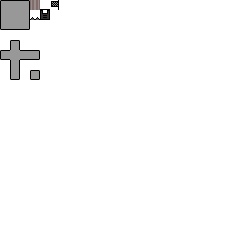
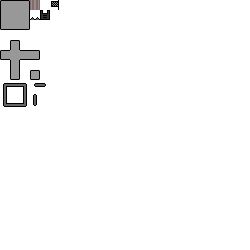
Add moving block

Changed region(s): [[0.0, 0.308, 0.196, 0.448], [0.168, 0.028, 0.196, 0.056]]

diff --git a/src/main.rs b/src/main.rs
@@ -9,6 +9,7 @@ use ggez::graphics::{DrawParam, Image, Rect};
 use ggez::input::keyboard;
 use ggez::{graphics, Context, ContextBuilder, GameResult};
 
+use crate::ObjectType::Platform;
 use na::{DMatrix, DMatrixSlice, Isometry2, Point2, Scalar, Vector2};
 use ncollide2d::shape::{Cuboid, ShapeHandle};
 use nphysics2d::algebra::{Force2, ForceType, Velocity2};
@@ -64,6 +65,13 @@ fn add<N: std::ops::Add<Output = N> + Copy + Scalar>(
     Point2::new(point1.x + point2.x, point1.y + point2.y)
 }
 
+fn sub<N: std::ops::Sub<Output = N> + Copy + Scalar>(
+    point1: Point2<N>,
+    point2: Point2<N>,
+) -> Point2<N> {
+    Point2::new(point1.x - point2.x, point1.y - point2.y)
+}
+
 type Id = u32;
 fn get_id() -> Id {
     use std::sync::atomic;
@@ -93,6 +101,17 @@ fn draw_rect(ctx: &mut Context, rect: Rect, color: graphics::Color) -> GameResul
     )?;
     graphics::draw(ctx, &circle, DrawParam::new())?;
     Ok(())
+}
+
+fn parse_property(tile: &tiled::Tile, name: &str) -> bool {
+    *tile
+        .properties
+        .get(name)
+        .and_then(|val| match val {
+            PropertyValue::BoolValue(val) => Some(val),
+            _ => None,
+        })
+        .expect("Tile property not found.")
 }
 
 #[derive(Debug)]
@@ -242,12 +261,14 @@ enum TileType {
     Spikes,
     Wall,
     Gun,
+    Rail,
     None,
 }
 
 #[derive(Debug)]
 enum TileData {
     GunData(GunTile),
+    RailData(bool),
     None,
 }
 
@@ -276,15 +297,7 @@ impl TileInstance {
         let real_point = Tile::point_to_real(coords);
         let vector = point_to_vector(real_point);
 
-        let is_solid = *tile
-            .info
-            .properties
-            .get("is_solid")
-            .and_then(|val| match val {
-                PropertyValue::BoolValue(val) => Some(val),
-                _ => None,
-            })
-            .unwrap();
+        let is_solid = parse_property(&tile.info, "is_solid");
 
         let (shape, translation) = match &tile.info.objectgroup {
             Some(object_group) => {
@@ -359,6 +372,7 @@ impl TileInstance {
 
         let extra_data = match tile.type_ {
             TileType::Gun => TileData::GunData(GunTile::new()),
+            TileType::Rail => TileData::RailData(parse_property(&tile.info, "is_endpoint")),
             _ => TileData::None,
         };
 
@@ -428,9 +442,87 @@ impl GunTile {
 }
 
 type TileInstanceId = Id;
-#[derive(Debug)]
+#[derive(Debug, Default)]
 struct Level {
     tiles: HashMap<TileInstanceId, TileInstance>,
+    rails: Vec<Rail>,
+}
+
+#[derive(Debug, Clone, Copy)]
+enum Phase {
+    Forwards,
+    Backwards,
+}
+
+#[derive(Debug)]
+struct Rail {
+    rail: Vec<Point2<TileN>>,
+    platform: Entity,
+    phase: Phase,
+    rail_i: usize,
+}
+
+impl Iterator for Rail {
+    type Item = Point2<TileN>;
+
+    fn next(&mut self) -> Option<Self::Item> {
+        self.phase = if self.rail_i == 0 {
+            Phase::Forwards
+        } else if self.rail_i == self.rail.len() - 1 {
+            Phase::Backwards
+        } else {
+            self.phase
+        };
+        self.rail_i = match self.phase {
+            Phase::Forwards => self.rail_i + 1,
+            Phase::Backwards => self.rail_i.checked_sub(1).unwrap(),
+        };
+        Some(self.rail[self.rail_i].clone())
+    }
+}
+
+impl Rail {
+    const PLATFORM_SIZE: (N, N) = (10., 10.);
+    const PLATFORM_SPRITE_POS: (N, N) = (14., 0.);
+    const PLATFORM_SPEED: N = 20.;
+
+    pub fn new(physics: &mut Physics, rail: Vec<Point2<TileN>>) -> Self {
+        let platform = Entity::new(
+            physics,
+            tuple_to_point(Self::PLATFORM_SPRITE_POS),
+            Tile::point_to_real(rail[0].clone()),
+            tuple_to_point(Self::PLATFORM_SIZE),
+            RigidBodyDesc::new().status(BodyStatus::Kinematic),
+            false,
+            ObjectType::Platform,
+            false,
+        );
+        Self {
+            rail,
+            platform,
+            phase: Phase::Forwards,
+            rail_i: 0,
+        }
+    }
+
+    pub fn update(&mut self, physics: &mut Physics) {
+        let dest = self.rail[self.rail_i].clone();
+        let pos_diff = sub(self.platform.position(physics), Tile::point_to_real(dest));
+        let cutoff = Self::PLATFORM_SPEED / 100.;
+        if pos_diff.x.abs() < cutoff && pos_diff.y.abs() < cutoff {
+            let next_dest = self.next().unwrap();
+            self.platform.rigid_body_mut(physics).set_velocity(
+                Velocity2::linear(
+                    next_dest.x as N - dest.clone().x as N,
+                    next_dest.y as N - dest.clone().y as N,
+                ) * Self::PLATFORM_SPEED,
+            );
+        }
+    }
+
+    pub fn draw(&self, ctx: &mut Context, physics: &Physics, spritesheet: &Image) {
+        self.platform.draw(ctx, physics, spritesheet);
+    }
 }
 
 impl Level {
@@ -443,7 +535,7 @@ impl Level {
             .iter()
             .enumerate()
             .filter_map(|(i, tile_id)| {
-                let tile = Tilemap::get_tile_from_id(tiles, *tile_id);
+                let tile = Tilemap::get_tile_from_tile_id(tiles, *tile_id);
                 if tile.type_ != TileType::None {
                     Some((
                         get_id(),
@@ -460,15 +552,51 @@ impl Level {
             })
             .collect();
 
+        let mut rail_set: Vec<Vec<Point2<TileN>>> = Vec::new();
+
+        for tile_instance in tile_instances.values() {
+            if let TileData::RailData(true) = tile_instance.extra_data {
+                if !rail_set
+                    .iter()
+                    .flatten()
+                    .collect::<Vec<_>>()
+                    .contains(&&tile_instance.coords)
+                {
+                    let mut rail = Vec::new();
+                    Self::build_rail(tilematrix, tiles, &mut rail, tile_instance.coords.clone());
+                    rail_set.push(rail);
+                }
+            }
+        }
+
+        let rails = rail_set
+            .into_iter()
+            .map(|rail| Rail::new(physics, rail))
+            .collect();
+
         Level {
             tiles: tile_instances,
+            rails,
         }
     }
 
-    pub fn default() -> Self {
-        Self {
-            tiles: HashMap::new(),
-        }
+    fn build_rail(
+        tilematrix: &DMatrix<TileId>,
+        tiles: &HashMap<TileId, Tile>,
+        rail: &mut Vec<Point2<TileN>>,
+        coords: Point2<TileN>,
+    ) {
+        rail.push(coords.clone());
+
+        Direction::create_adjascent(coords)
+            .into_iter()
+            .flatten()
+            .find(|coords| {
+                !rail.contains(&coords)
+                    && Tilemap::get_tile_from_matrix(tilematrix, tiles, (*coords).clone()).type_
+                        == TileType::Rail
+            })
+            .map(|new_coords| Self::build_rail(tilematrix, tiles, rail, new_coords.clone()));
     }
 
     fn get_all_tiles_of_type<'a>(
@@ -478,7 +606,7 @@ impl Level {
     ) -> Vec<&'a TileInstance> {
         tile_instances
             .values()
-            .filter(|tile| Tilemap::get_tile_from_id(tiles, tile.tile_id).type_ == type_)
+            .filter(|tile| Tilemap::get_tile_from_tile_id(tiles, tile.tile_id).type_ == type_)
             .collect()
     }
 
@@ -492,6 +620,10 @@ impl Level {
                 }
                 _ => (),
             }
+        }
+
+        for rail in self.rails.iter_mut() {
+            rail.update(physics);
         }
     }
 
@@ -509,6 +641,10 @@ impl Level {
             }
 
             graphics::draw(ctx, tilesheet, tile.draw_param)?;
+        }
+
+        for rail in self.rails.iter() {
+            rail.draw(ctx, physics, spritesheet);
         }
 
         Ok(())
@@ -606,6 +742,7 @@ struct Tilemap {
 #[derive(PartialEq, Debug, Clone, Copy)]
 enum ObjectType {
     Player,
+    Platform,
     Bullet(TileInstanceId),
     Tile(TileInstanceId),
 }
@@ -636,6 +773,7 @@ impl Tilemap {
                         "Spikes" => Spikes,
                         "Wall" => Wall,
                         "Gun" => Gun,
+                        "Rail" => Rail,
                         tile_type => panic!("Unknown tile type: {}", tile_type),
                     }
                 });
@@ -694,11 +832,7 @@ impl Tilemap {
                 },
             );
 
-        let mut entrances = Self::find_tiles_from_matrix(
-            &tilematrix.slice((0, 0), tilematrix.shape()),
-            &tiles,
-            TileType::Entrance,
-        );
+        let mut entrances = Self::find_tiles_from_matrix(&tilematrix, &tiles, TileType::Entrance);
         entrances.sort_by_key(|i| i.x);
 
         let level_info = entrances
@@ -708,7 +842,11 @@ impl Tilemap {
 
                 // we calculate the level size by how far left and right the wallpaper stretches
                 let xs = &wallpaper.iter().map(|point| point.x).collect::<Vec<_>>();
-                let x_bounds = (xs.iter().min().unwrap() - 1, xs.iter().max().unwrap() + 2);
+                // prevent overflow caused by subtracting 1 from 0
+                let x_bounds = (
+                    xs.iter().min().unwrap().saturating_sub(1),
+                    xs.iter().max().unwrap() + 2,
+                );
 
                 let matrix_slice = tilematrix
                     .slice(
@@ -740,12 +878,26 @@ impl Tilemap {
         }
     }
 
-    pub fn get_tile_from_id(tiles: &HashMap<TileId, Tile>, id: TileId) -> &Tile {
+    pub fn get_tile_id_from_matrix(tilematrix: &DMatrix<TileId>, coords: Point2<TileN>) -> TileId {
+        *tilematrix
+            .get(point_to_tuple(coords))
+            .expect("Matrix tile id query out of bounds.")
+    }
+
+    pub fn get_tile_from_tile_id(tiles: &HashMap<TileId, Tile>, id: TileId) -> &Tile {
         &tiles[&strip_transformations(id)]
     }
 
+    pub fn get_tile_from_matrix<'a>(
+        tilematrix: &DMatrix<TileId>,
+        tiles: &'a HashMap<TileId, Tile>,
+        coords: Point2<TileN>,
+    ) -> &'a Tile {
+        Self::get_tile_from_tile_id(tiles, Self::get_tile_id_from_matrix(tilematrix, coords))
+    }
+
     fn find_tiles_from_matrix(
-        tilematrix: &DMatrixSlice<TileId>,
+        tilematrix: &DMatrix<TileId>,
         tiles: &HashMap<TileId, Tile>,
         tile_type: TileType,
     ) -> Vec<Point2<TileN>> {
@@ -753,7 +905,7 @@ impl Tilemap {
             .iter()
             .enumerate()
             .filter_map(|(i, id)| {
-                if Self::get_tile_from_id(tiles, *id).type_ == tile_type {
+                if Self::get_tile_from_tile_id(tiles, *id).type_ == tile_type {
                     Some(tuple_to_point(tilematrix.vector_to_matrix_index(i)))
                 } else {
                     None
@@ -779,18 +931,12 @@ impl Tilemap {
         wallpaper: &mut Vec<Point2<usize>>,
     ) {
         for new_coords in Direction::create_adjascent(coords).iter().flatten() {
-            let tile_type = &Self::get_tile_from_id(
-                tiles,
-                *tilematrix
-                    .get((new_coords.x, new_coords.y))
-                    .expect("Wallpaper machine has gone outside of bounds."),
-            )
-            .type_;
-            if !wallpaper.contains(new_coords) && *tile_type != TileType::Wall {
+            let tile_type = Self::get_tile_from_matrix(tilematrix, tiles, new_coords.clone()).type_;
+            if !wallpaper.contains(new_coords) && tile_type != TileType::Wall {
                 wallpaper.push(new_coords.clone());
                 // Still place a wallpaper behind all non-Wall wall blocks, since some of them
                 // have open spaces that the wallpaper can shine through
-                if !WALL_TILE_TYPES.contains(tile_type) {
+                if !WALL_TILE_TYPES.contains(&tile_type) {
                     Tilemap::build_wallpaper(tilematrix, tiles, new_coords.clone(), wallpaper);
                 }
             }
@@ -1104,7 +1250,7 @@ impl EventHandler for MyGame {
                     (ObjectType::Player, other) | (other, ObjectType::Player) => match other {
                         ObjectType::Tile(tile_id) => {
                             let collided_tile =
-                                Tilemap::get_tile_from_id(&self.tilemap.tiles, tile_id);
+                                Tilemap::get_tile_from_tile_id(&self.tilemap.tiles, tile_id);
                             match collided_tile.type_ {
                                 TileType::Spikes => self.player.reset(
                                     &mut self.physics,
@@ -1153,7 +1299,7 @@ impl EventHandler for MyGame {
             &self.tilesheet_image,
             &self.spritesheet_image,
         )?;
-        self.physics.draw_colliders(ctx)?;
+        // self.physics.draw_colliders(ctx)?;
         self.player
             .entity
             .draw(ctx, &self.physics, &self.spritesheet_image)?;
